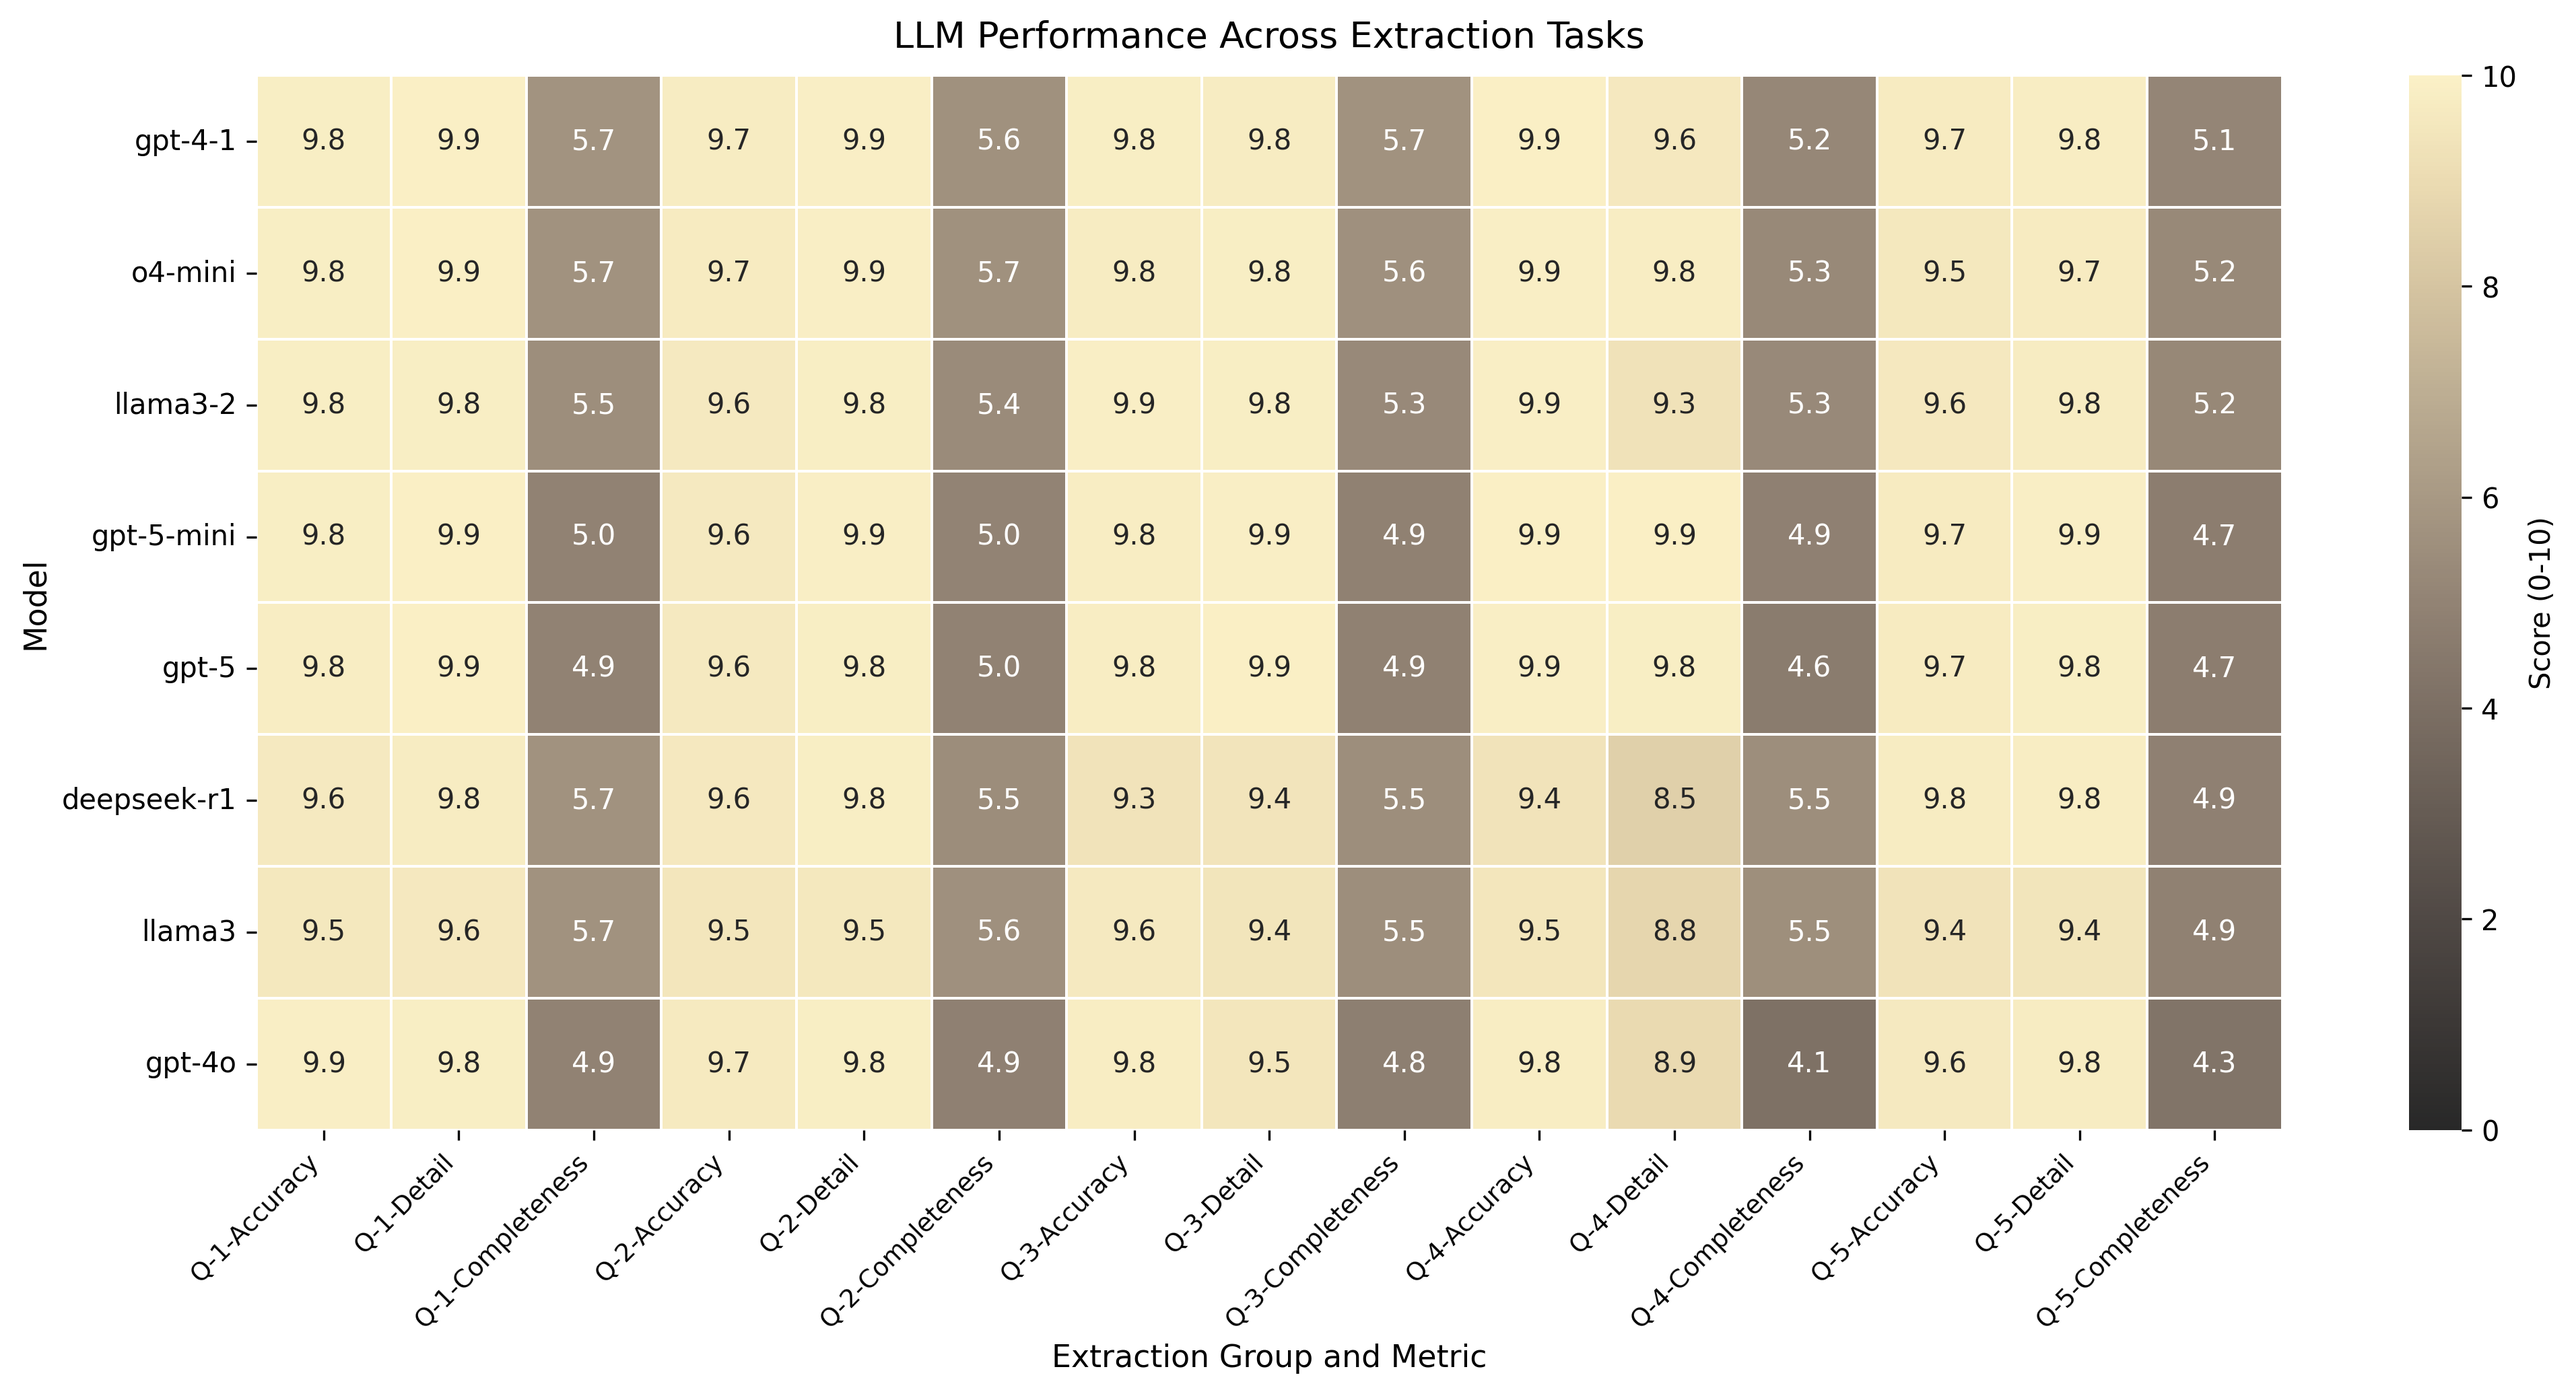
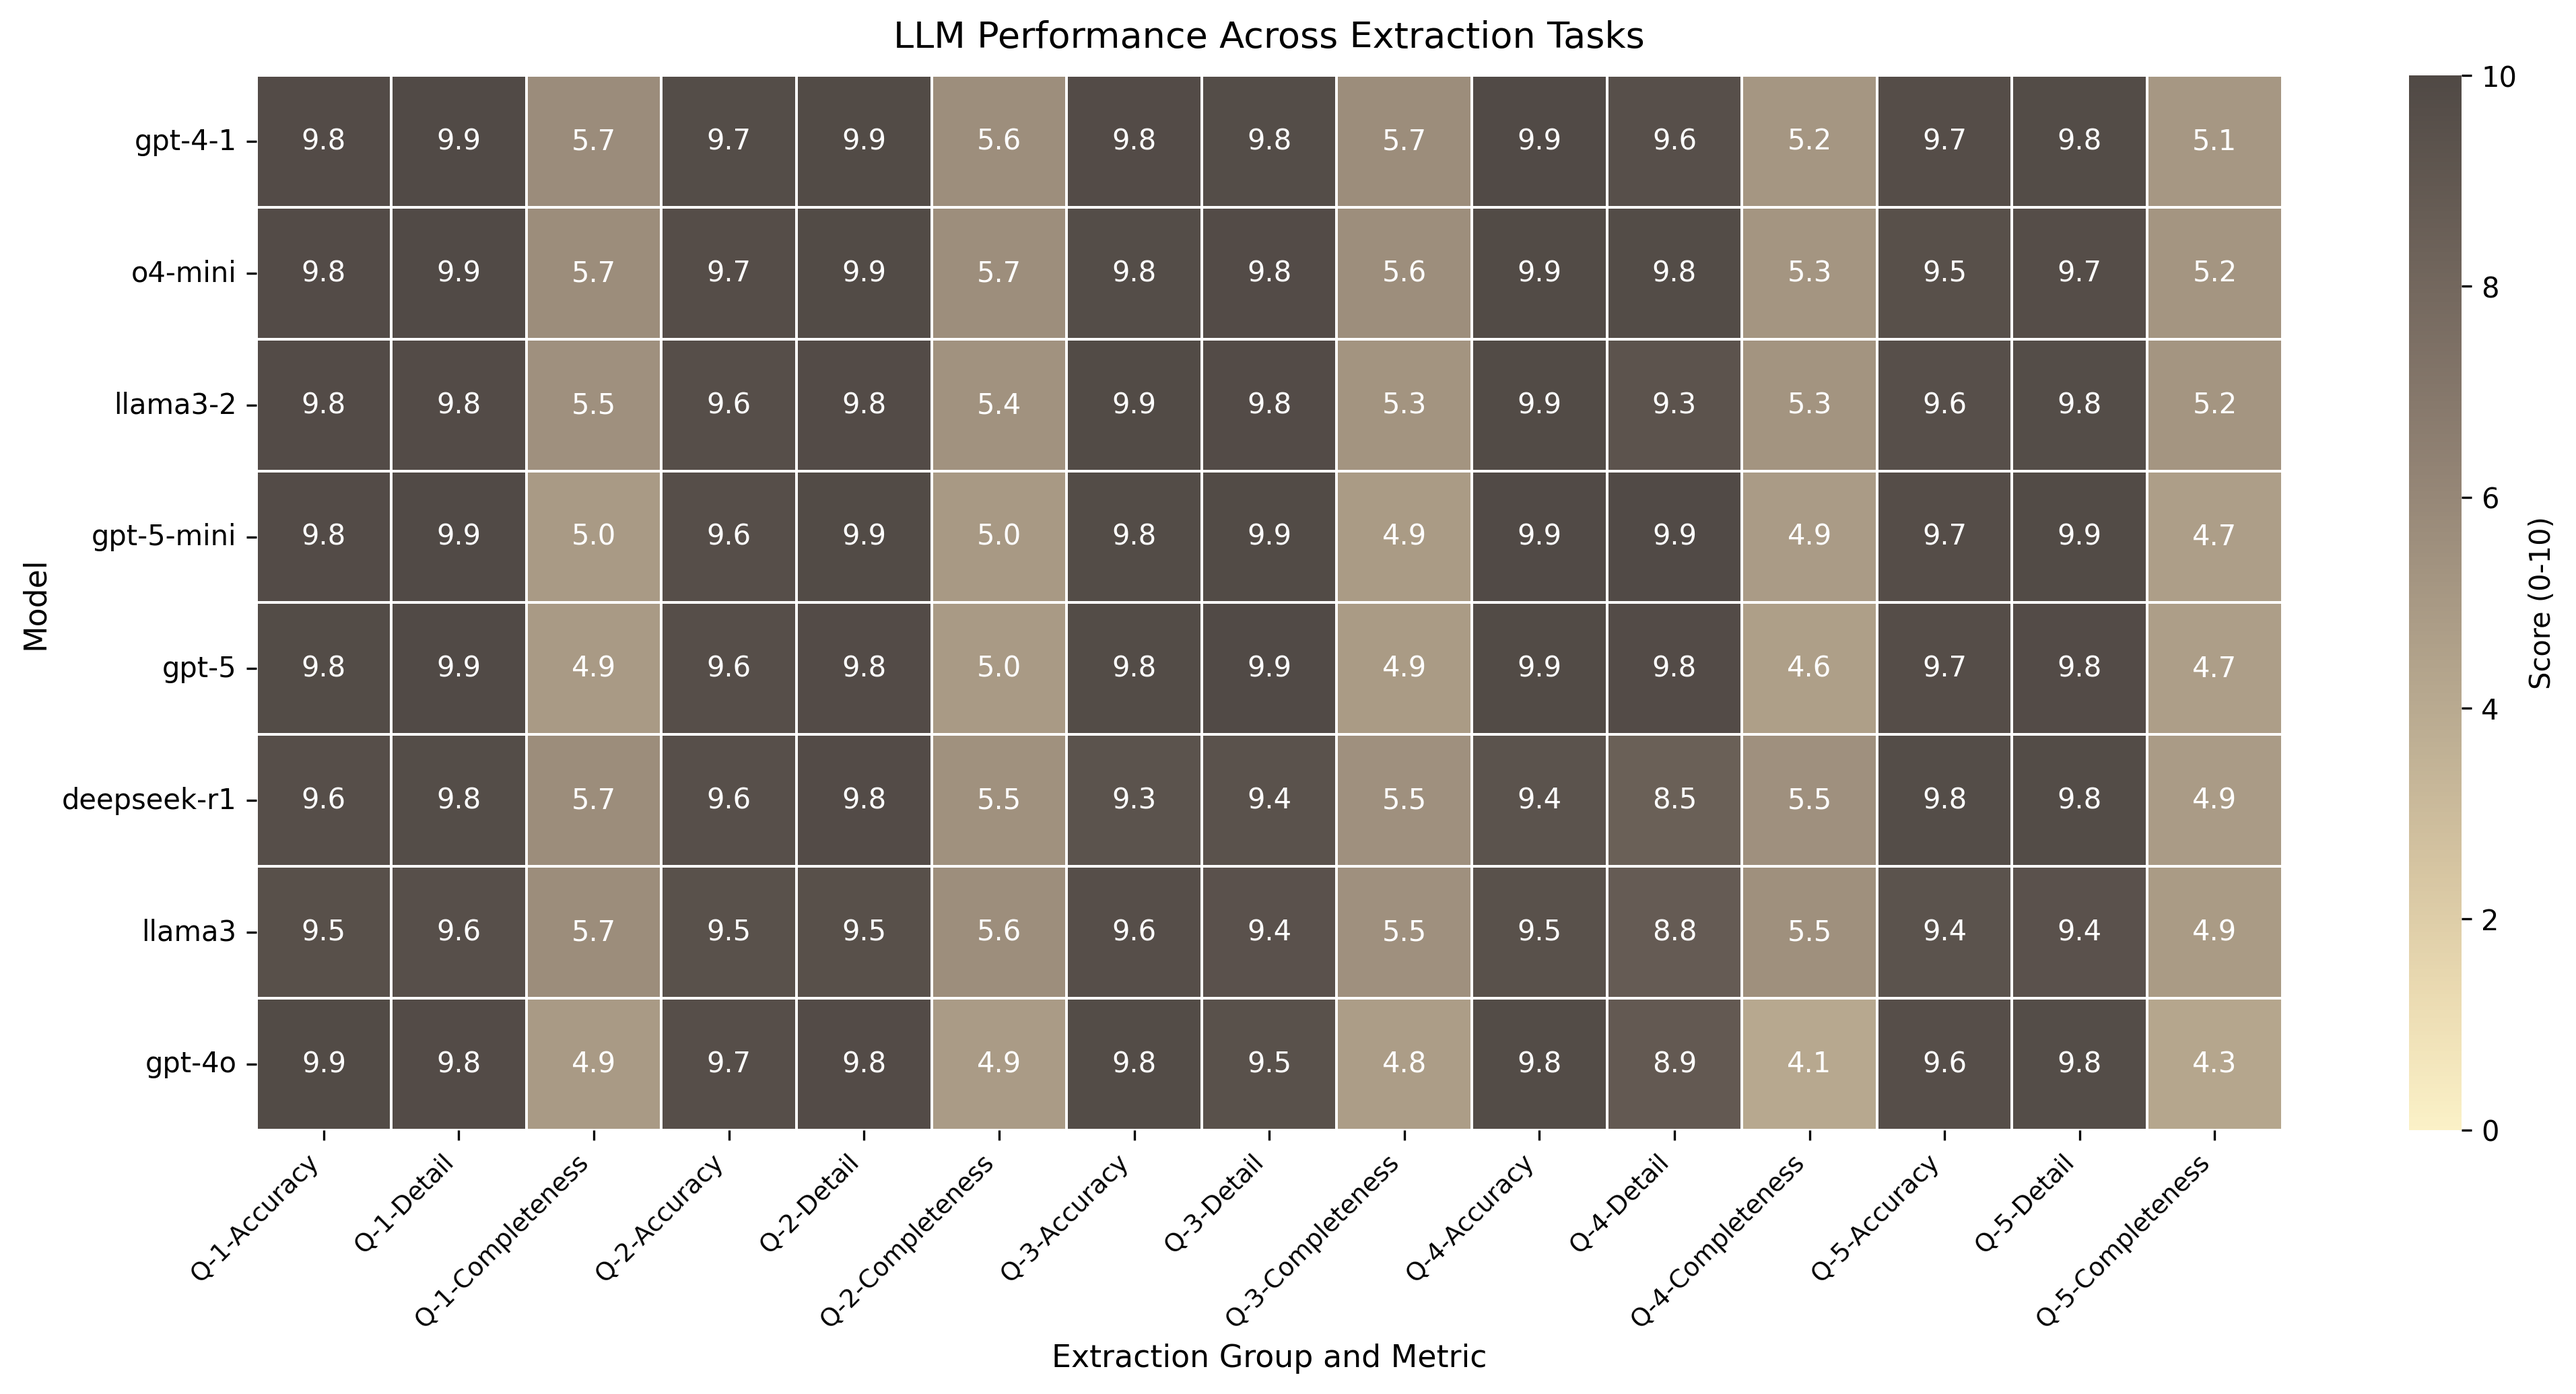
update

diff --git a/scripts/python/analysis/create-manuscript-assets.py b/scripts/python/analysis/create-manuscript-assets.py
@@ -9,23 +9,17 @@ This script generates:
 # ==== Imports ====
 
 # ---- Standard library ----
-from pathlib import Path
-from typing import Dict, List, Optional
 import argparse
-import sys
 import json
-import io
-import base64
-
-# ---- Data and computation ----
-import pandas as pd
-import numpy as np
+from pathlib import Path
 
 # ---- Visualization ----
 import matplotlib.pyplot as plt
-import matplotlib.patches as mpatches
-import seaborn as sns
+import numpy as np
 
+# ---- Data and computation ----
+import pandas as pd
+import seaborn as sns
 
 # ==== Constants ====
 
@@ -330,8 +324,8 @@ def create_combined_figure(
     ].tolist()
 
     gruvbox_colors = [
-        "#282828",
-        "#3c3836",
+        # "#282828",
+        # "#3c3836",
         "#504945",
         "#665c54",
         "#7c6f64",
@@ -342,6 +336,7 @@ def create_combined_figure(
         "#ebdbb2",
         "#fbf1c7",
     ]
+    gruvbox_colors.reverse()
 
     from matplotlib.colors import LinearSegmentedColormap
 
